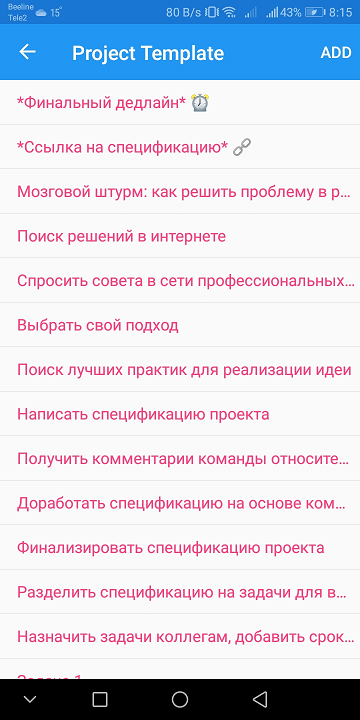
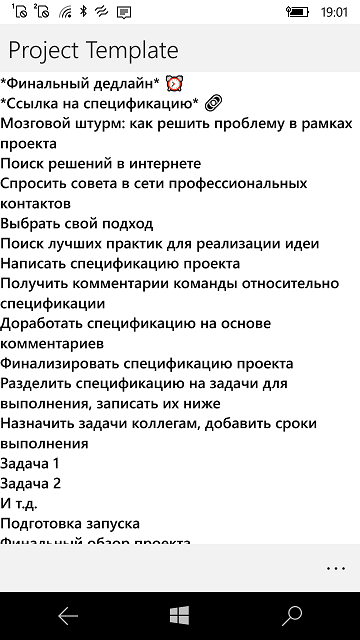
.

Changed region(s): [[0.0, 0.0, 1.0, 1.0]]

diff --git a/TodoistX/TodoistX/App.xaml.cs b/TodoistX/TodoistX/App.xaml.cs
@@ -45,8 +45,8 @@ namespace TodoistX
                           //AuthKey = "2f6421653f8eb04e42492f94615d6b32daf343bc"
                             AppName = "TodoistX",
                             Author = " Media Explorer",
-                            AuthKey = "xxxxxx" // paste your Access Token here
-                        };
+                            AuthKey = "829fbf9d4edb4c8fa4bcfa2b3e338800804c2c1d" // paste your Access Token here
+                    };
 
 	                conn.Insert(d);
 	            }

diff --git a/README.md b/README.md
@@ -4,7 +4,8 @@
 
 ## Screenshots
 
-![Todoist's Task List](Images/shot1.png)
+![Task List - Win10Mobile](Images/shot1.png)
+![Task List - Android](Images/shot2.png)
 
 ## Tech details
 
